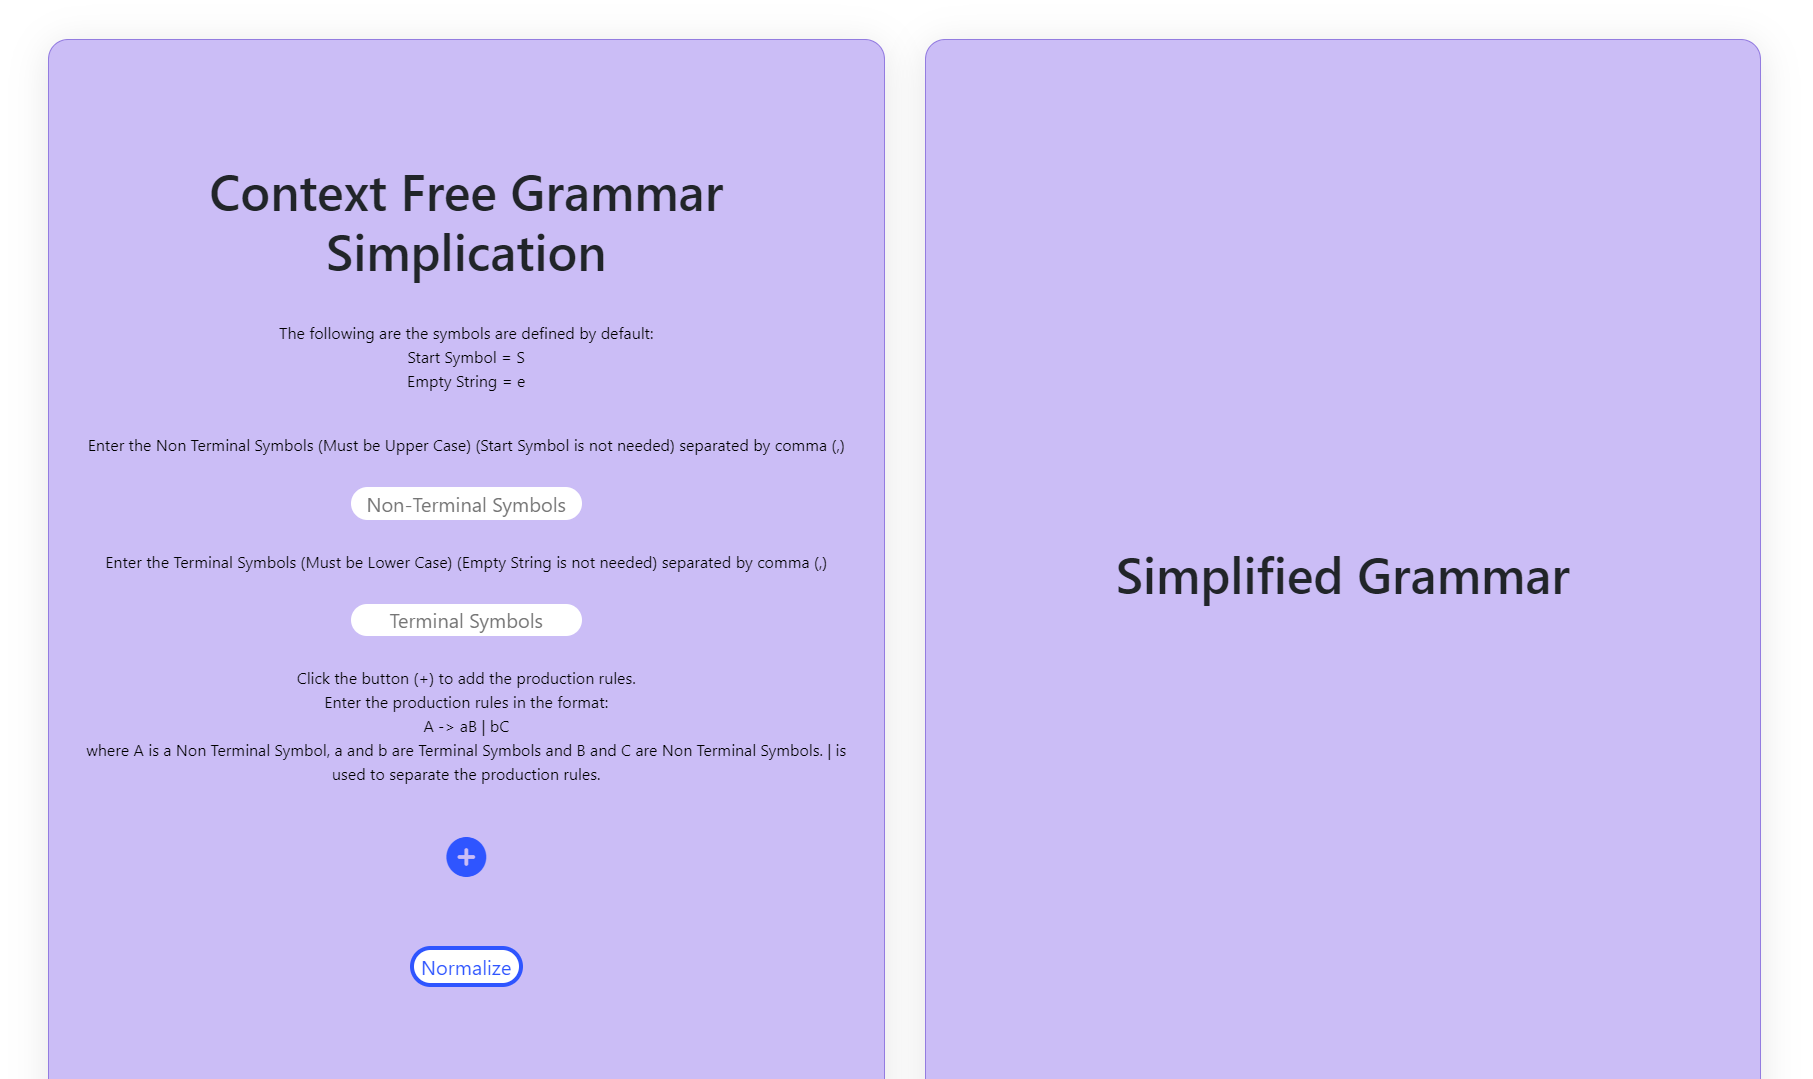
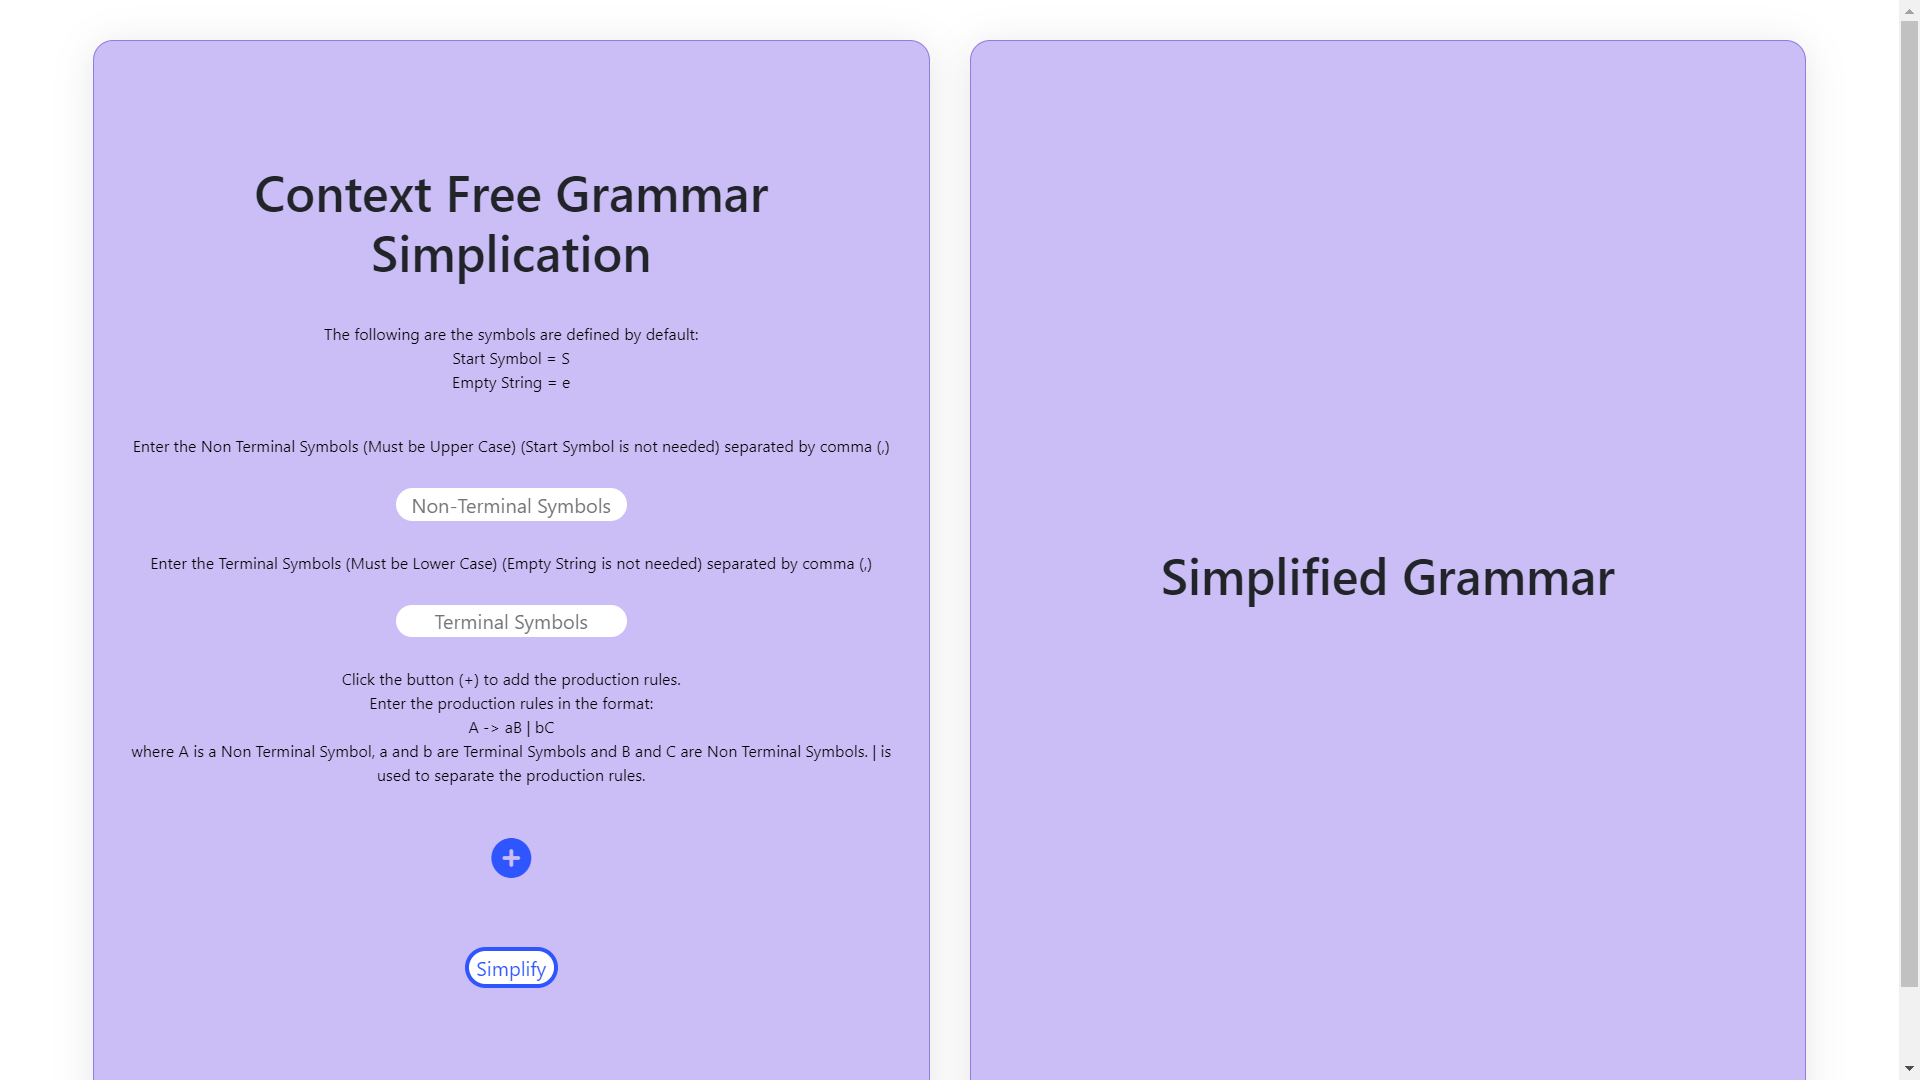
changes to index, and screenshots

diff --git a/index.html b/index.html
@@ -49,7 +49,7 @@
                 </div>
 
                 <div class="btn-container">
-                    <button id="normalize-btn" type="submit">Normalize</button>
+                    <button id="simplify-btn" type="submit">Simplify</button>
                 </div>
             </form>
 

diff --git a/css/index.css b/css/index.css
@@ -126,7 +126,7 @@ input:focus{
     border: 0.2rem solid rgb(47, 85, 255);
 }
 
-#normalize-btn{
+#simplify-btn{
     outline: none;
     cursor: pointer;
     color: rgb(47, 85, 255);
